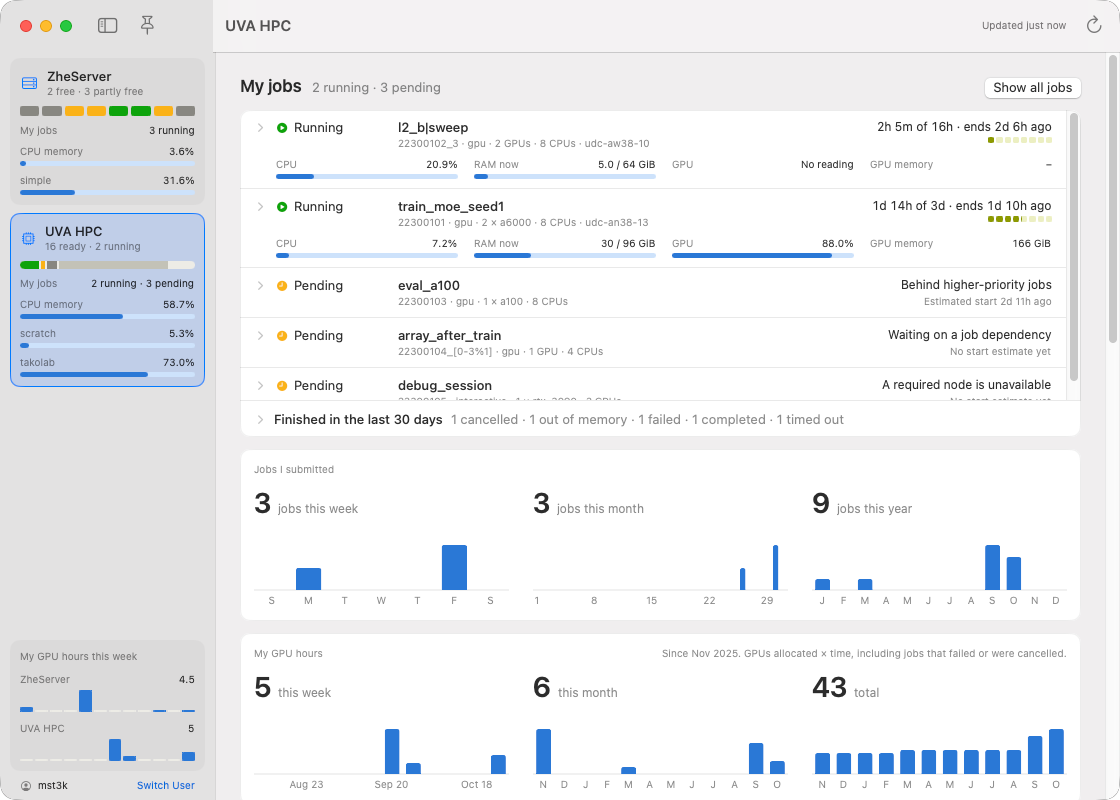
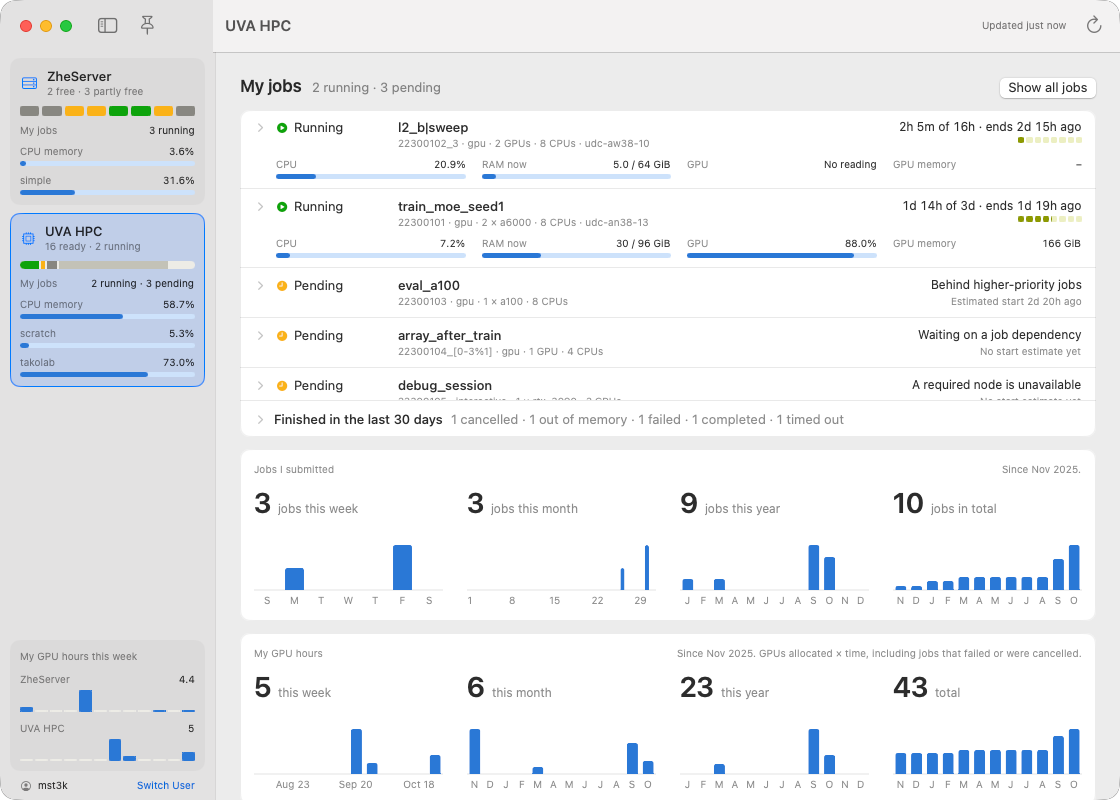
Add year and total tiles, fold away expired grants under my share
My GPU hours gets a this-year tile, one bar per month from January.
Jobs I submitted gets a total tile with a monthly running total, and
says how far back the history goes. My share of the lab's SUs lists
only current grants, with expired ones under a collapsible row.
README and screenshots updated to match.

diff --git a/Sources/GPUWatch/JobActivity.swift b/Sources/GPUWatch/JobActivity.swift
@@ -1,24 +1,54 @@
 import GPUWatchCore
 import SwiftUI
 
-/// How many jobs the user submitted this week, month and year, each over its own time scale.
+/// How many jobs the user submitted this week, month and year, each over its own time scale,
+/// and in total.
 struct JobActivity: View {
     let history: JobHistory
+
+    private static let monthsShown = 12
 
     var body: some View {
         Panel {
             VStack(alignment: .leading, spacing: 10) {
-                Text("Jobs I submitted")
-                    .font(.caption)
-                    .foregroundStyle(.secondary)
+                HStack(alignment: .firstTextBaseline, spacing: 12) {
+                    Text("Jobs I submitted")
+                    Spacer(minLength: 0)
+                    if let first = history.firstSubmitted {
+                        Text("Since \(first.formatted(.dateTime.month(.abbreviated).year())).")
+                    }
+                }
+                .font(.caption)
+                .foregroundStyle(.secondary)
+                .lineLimit(1)
                 HStack(alignment: .top, spacing: 24) {
                     tile("this week", slots: history.week(), scale: .week)
                     tile("this month", slots: history.month(), scale: .month)
                     tile("this year", slots: history.year(), scale: .year)
+                    totalTile()
                 }
             }
             .padding(14)
         }
+    }
+
+    /// Thinned out once the months stop fitting, counting back so the latest keeps its label.
+    private func totalTile() -> some View {
+        let totals = history.runningTotal(minimumMonths: Self.monthsShown)
+        let total = history.jobs.count
+        let every = totals.count <= Self.monthsShown + 2 ? 1 : 3
+        return SlotTile(
+            number: "\(total)",
+            caption: "\(total == 1 ? "job" : "jobs") in total",
+            columns: totals.enumerated().map { index, month in
+                let isLabeled = (totals.count - 1 - index) % every == 0
+                return SlotColumn(
+                    value: Double(month.count),
+                    label: isLabeled ? month.date.formatted(.dateTime.month(every == 1 ? .narrow : .abbreviated)) : nil,
+                    tooltip: "Total by \(month.date.formatted(.dateTime.month(.wide).year())): \(month.count == 1 ? "1 job" : "\(month.count) jobs")"
+                )
+            }
+        )
     }
 
     private func tile(_ period: String, slots: [ActivitySlot], scale: ActivityScale) -> some View {
@@ -62,7 +92,7 @@ private enum ActivityScale {
     }
 }
 
-/// The user's GPU hours on one machine: per week, per month, and in total.
+/// The user's GPU hours on one machine: per week, per month, this year, and in total.
 struct GPUHoursPanel: View {
     let usage: GPUUsage
     let today: Date
@@ -77,6 +107,7 @@ struct GPUHoursPanel: View {
     var body: some View {
         let weeks = usage.weeks(count: Self.weeksShown, through: today)
         let months = usage.months(count: Self.monthsShown, through: today)
+        let year = usage.year(holding: today)
         Panel {
             VStack(alignment: .leading, spacing: 10) {
                 HStack(alignment: .firstTextBaseline, spacing: 12) {
@@ -90,6 +121,7 @@ struct GPUHoursPanel: View {
                 HStack(alignment: .top, spacing: 24) {
                     SlotTile(number: Format.hours(weeks.last?.hours ?? 0), caption: "this week", columns: weekColumns(weeks))
                     SlotTile(number: Format.hours(months.last?.hours ?? 0), caption: "this month", columns: monthColumns(months))
+                    SlotTile(number: Format.hours(year.map(\.hours).reduce(0, +)), caption: "this year", columns: monthColumns(year))
                     SlotTile(number: Format.hours(usage.totalHours), caption: "total", columns: totalColumns())
                 }
             }

diff --git a/Sources/GPUWatchChecks/main.swift b/Sources/GPUWatchChecks/main.swift
@@ -367,6 +367,11 @@ func checkJobHistory() throws {
     check(month.count == 31 && month.map(\.count).reduce(0, +) == 3, "this month by day: \(month.map(\.count))")
     let year = history.year(calendar: sundayFirst)
     check(year.map(\.count) == [1, 0, 1, 0, 0, 0, 0, 0, 4, 3, 0, 0], "counted when submitted, not when ended: \(year.map(\.count))")
+    let totals = history.runningTotal(minimumMonths: 12, calendar: sundayFirst)
+    check(totals.count >= 12 && totals.last?.count == history.jobs.count, "the running total ends at every job: \(totals.map(\.count))")
+    check(zip(totals, totals.dropFirst()).allSatisfy { $0.count <= $1.count }, "a running total never falls")
+    check(totals.first.map { sundayFirst.isDate($0.date, equalTo: history.firstSubmitted ?? .distantPast, toGranularity: .month) } == true
+          || totals.count == 12, "the total starts at the first job's month, unless padded to a year")
 
     let grants = try HPCSnapshot.parse(fixture("UVA_HPC")).allocation?.grants ?? []
     let shares = history.charges(on: grants)
@@ -402,6 +407,13 @@ func checkGPUHours() throws {
     check(months.count == 12 && months[0] == 20 && months[10] == 14 && months[11] == 6, "a job across two months is split between them: \(months)")
     let weeks = usage.weeks(count: 12, through: history.today, calendar: sundayFirst).map(\.hours)
     check(weeks.count == 12 && weeks[11] == 5 && weeks[10] == 0 && weeks[7] == 3, "hours per week, newest last: \(weeks)")
+    let year = usage.year(holding: history.today, calendar: sundayFirst)
+    let thisYear = sundayFirst.component(.year, from: history.today)
+    let monthsThisYear = usage.months(count: 12, through: history.today, calendar: sundayFirst).filter { sundayFirst.component(.year, from: $0.date) == thisYear }
+    check(year.count == 12 && year.allSatisfy { sundayFirst.component(.year, from: $0.date) == thisYear } && sundayFirst.component(.month, from: year[0].date) == 1,
+          "this year is January to December: \(year.map(\.date))")
+    check(abs(year.map(\.hours).reduce(0, +) - monthsThisYear.map(\.hours).reduce(0, +)) < 0.001 && year.map(\.hours).reduce(0, +) < usage.totalHours,
+          "this year counts only its own months: \(year.map(\.hours))")
     let totals = usage.runningTotal(through: history.today, calendar: sundayFirst)
     check(totals.count == 12 && totals.first?.hours == 20 && abs((totals.last?.hours ?? 0) - 43) < 0.001, "the running total ends at the total: \(totals.map(\.hours))")
     check(GPUUsage(intervals: []).runningTotal(through: history.today).count == 1, "nothing used yet is still one month")

diff --git a/Sources/GPUWatch/HPCPage.swift b/Sources/GPUWatch/HPCPage.swift
@@ -766,7 +766,8 @@ private struct MyUsage: View {
 }
 
 /// How much of what the lab has used on each grant was the user. Grants nobody has used are
-/// left out, since there's nothing to take a share of.
+/// left out, since there's nothing to take a share of, and ones that can't be spent any more
+/// are folded away below the current ones.
 private struct MyShare: View {
     @Environment(AppModel.self) private var model
     let snapshot: HPCSnapshot
@@ -788,12 +789,41 @@ private struct MyShare: View {
                 .font(.caption)
                 .monospacedDigit()
                 .lineLimit(1)
-                ForEach(rows, id: \.grant.id) { row in
+                let current = rows.filter(\.grant.isActive)
+                let past = rows.filter { !$0.grant.isActive }
+                ForEach(current, id: \.grant.id) { row in
                     shareRow(grant: row.grant, mine: row.mine)
+                }
+                // With no current grant there's nothing to fold the old ones under.
+                if !past.isEmpty && !current.isEmpty {
+                    pastHeader(past.map(\.grant))
+                }
+                if current.isEmpty || model.showsInactiveShares {
+                    ForEach(past, id: \.grant.id) { row in
+                        shareRow(grant: row.grant, mine: row.mine)
+                    }
                 }
             }
             .padding(14)
         }
+    }
+
+    private func pastHeader(_ grants: [AllocationGrant]) -> some View {
+        Button {
+            model.showsInactiveShares.toggle()
+        } label: {
+            HStack(spacing: 8) {
+                Chevron(isOpen: model.showsInactiveShares)
+                Text(grants.allSatisfy { $0.phase(now: .now) == .expired } ? "Expired grants" : "Inactive grants")
+                Text("\(grants.count)")
+                    .monospacedDigit()
+                Spacer()
+            }
+            .font(.caption)
+            .foregroundStyle(.secondary)
+            .padding(.vertical, 2)
+        }
+        .buttonStyle(HoverRowStyle())
     }
 
     private var rows: [(grant: AllocationGrant, mine: Int)] {

diff --git a/Sources/GPUWatchCore/JobHistory.swift b/Sources/GPUWatchCore/JobHistory.swift
@@ -128,6 +128,24 @@ public struct JobHistory: Sendable, Equatable {
         return slots(from: start, count: 12, unit: .month, calendar: calendar)
     }
 
+    public var firstSubmitted: Date? { jobs.values.map(\.submitted).min() }
+
+    /// The total so far at each month from the first job through this one, going back at least
+    /// `minimumMonths` so that a short history doesn't fill a chart with one huge column.
+    public func runningTotal(minimumMonths: Int = 1, calendar: Calendar = .current) -> [ActivitySlot] {
+        guard let thisMonth = calendar.dateInterval(of: .month, for: today)?.start else { return [] }
+        var count = minimumMonths
+        if let first = firstSubmitted, let firstMonth = calendar.dateInterval(of: .month, for: first)?.start {
+            count = max((calendar.dateComponents([.month], from: firstMonth, to: thisMonth).month ?? 0) + 1, minimumMonths)
+        }
+        guard let start = calendar.date(byAdding: .month, value: 1 - count, to: thisMonth) else { return [] }
+        var total = 0
+        return slots(from: start, count: count, unit: .month, calendar: calendar).map { month in
+            total += month.count
+            return ActivitySlot(date: month.date, count: total)
+        }
+    }
+
     private func slots(from start: Date, count: Int, unit: Calendar.Component, calendar: Calendar) -> [ActivitySlot] {
         (0..<count).compactMap { offset in
             guard let date = calendar.date(byAdding: unit, value: offset, to: start),

diff --git a/Sources/GPUWatchCore/GPUUsage.swift b/Sources/GPUWatchCore/GPUUsage.swift
@@ -50,6 +50,14 @@ public struct GPUUsage: Sendable, Equatable {
         slots(of: .month, count: count, through: today, calendar: calendar)
     }
 
+    /// Each month of the year holding `today`, January first, months still to come at zero.
+    public func year(holding today: Date, calendar: Calendar = .current) -> [UsageSlot] {
+        guard let start = calendar.dateInterval(of: .year, for: today)?.start,
+              let december = calendar.date(byAdding: .month, value: 11, to: start)
+        else { return [] }
+        return months(count: 12, through: december, calendar: calendar)
+    }
+
     /// The total so far at each month from the first use through `today`, going back at least
     /// `minimumMonths` so that a short history doesn't fill a chart with one huge column.
     public func runningTotal(through today: Date, minimumMonths: Int = 1, calendar: Calendar = .current) -> [UsageSlot] {

diff --git a/Sources/GPUWatch/AppModel.swift b/Sources/GPUWatch/AppModel.swift
@@ -58,6 +58,7 @@ final class AppModel {
     var showsFinishedJobs = false
     var showsAllActiveJobs = false
     var showsInactiveGrants = false
+    var showsInactiveShares = false
 
     private var started = false
     private var chargesRequestedAt: Date?
@@ -126,6 +127,7 @@ final class AppModel {
         showsFinishedJobs = false
         showsAllActiveJobs = false
         showsInactiveGrants = false
+        showsInactiveShares = false
         Task {
             await SSH.dropConnection(on: RemoteScripts.serverMachine, as: previous)
             await SSH.dropConnection(on: RemoteScripts.hpcMachine, as: previous)

diff --git a/README.md b/README.md
@@ -12,7 +12,7 @@ It reads over SSH, signed in as you, and never changes anything on either machin
 
 - **Free GPUs at a glance.** ZheServer's 8 GPUs as free, partly free or full, and UVA HPC's GPUs by type as ready, backfill, in use or offline, so you can tell whether a job would start now.
 - **Your jobs.** Running, pending and recently finished jobs on both machines, each with bars for what it's using: CPU, RAM, GPU and GPU memory. Pending jobs say why they're waiting.
-- **Your GPU hours** per week, month and in total on each machine.
+- **Your jobs and GPU hours** this week, month and year, and in total, on each machine.
 - **Lab allocation.** Your share of the SUs the lab has used on each grant, your charges per day, and an estimate for jobs still running.
 - **CPU memory and storage** for each machine, including your scratch space and the lab's shared storage.
 
@@ -96,7 +96,7 @@ Each job shows what it's using, with more detail when you hover. Nothing is rese
 | Partly free | Something is running, but at least 20% of the GPU's memory is unused |
 | Full | Under 20% of the GPU's memory is unused |
 
-**UVA HPC** runs `scontrol`, `squeue`, `sacct`, `sstat`, `mam-list-allocations`, `mam-list-transactions` and `hdquota`, and refreshes every 60 seconds. It lists your running and pending jobs, jobs finished in the last 30 days, how many jobs you submitted this week, month and year, GPUs by type, storage, and the lab's allocation. Click a job or a GPU type for details. Long job lists scroll in place, on both pages, so they don't push the rest of the page down. **Show all jobs** lists every running and pending job on UVA HPC at once.
+**UVA HPC** runs `scontrol`, `squeue`, `sacct`, `sstat`, `mam-list-allocations`, `mam-list-transactions` and `hdquota`, and refreshes every 60 seconds. It lists your running and pending jobs, jobs finished in the last 30 days, how many jobs you submitted this week, month and year and in total, GPUs by type, storage, and the lab's allocation. Click a job or a GPU type for details. Long job lists scroll in place, on both pages, so they don't push the rest of the page down. **Show all jobs** lists every running and pending job on UVA HPC at once.
 
 | GPU count | Meaning |
 |---|---|
@@ -118,13 +118,13 @@ Storage appears on both pages, measured differently:
 - **ZheServer:** `/p/simple` comes from `df`. It's its own volume, so this covers everyone who uses it.
 - **UVA HPC:** `/home/<ID>/scratch` and `/standard/takolab` come from `hdquota`, because `df` on `/standard` reports all of UVA's shared filesystem rather than the lab's quota. `/home/<ID>/scratch` is a link to `/scratch/<ID>`, whose total is UVA's soft limit.
 
-**Lab allocation** shows your share of what the lab has used on each grant, your own use of service units (SUs), then each grant on the `takolab` account with its dates and how much the whole lab has used. Expired grants stay collapsed until you open them.
+**Lab allocation** shows your share of what the lab has used on each grant, your own use of service units (SUs), then each grant on the `takolab` account with its dates and how much the whole lab has used. Expired grants stay collapsed until you open them, both under your share and in the grant list.
 
 - **Your charges** cover the last 60 days, because older accounting queries don't finish in a reasonable time, and Slurm's own history is capped at 31 days per query. A histogram and a heatmap show them per day, counted on the day the job ended. The heatmap has a column per week and a row per weekday. Hover over a day in either for its amount and number of jobs. This query refreshes every 15 minutes and when one of your jobs ends, rather than every minute.
 - **Your share** of a grant is what you've been charged on it over what the lab has used on it. The accounting system can't go back far enough, so your side comes from Slurm's job history: billing rate, run time and outcome, attributed to the grant open when the job ended. That matched all 84 real charges it could be checked against.
 - **Your running jobs** are an estimate, shown beside the total because they aren't part of it yet. A job costs a tenth of its Slurm `billing=` value per hour (`billing=1468` for 36,742 seconds was charged 1,498 SUs), and nothing is charged until it ends. Failed, cancelled and out-of-memory jobs end up free.
 
-**GPU hours** appear on both pages, per week, per month and in total, measured differently:
+**GPU hours** appear on both pages, per week, per month, for each month of this year and in total, measured differently:
 
 - **UVA HPC:** GPUs allocated × run time from Slurm's job history, split across the weeks and months each job ran in. This includes failed and cancelled jobs, which held their GPUs even though they're free.
 - **ZheServer:** the machine keeps no usage history, so the app records what it sees, in `~/Library/Application Support/GPU Watch/zheserver-gpu-usage-<ID>.json`, one file per computing ID. A process counts from when it really started to the last time the app saw it, and a GPU counts once however many of your processes share it. Work from before the first recording isn't there. A job that starts and ends while the app is closed or the Mac is asleep isn't counted, and a job that ends then loses the time after it was last seen.
@@ -136,7 +136,7 @@ Storage appears on both pages, measured differently:
 - **GPU:** Slurm's figure divided by the job's GPUs. It doesn't say whether this is a peak or an average, so treat it as a rough guide. **No reading** means Slurm reported 0 for both GPU numbers, which can mean the GPU went unused or wasn't read. Some older jobs and some `interactive` jobs have no GPU numbers.
 - **GPU memory:** the total across the job's GPUs, which can include memory PyTorch is holding on to after freeing it. Slurm doesn't say how much a GPU holds, so the bar's total comes from a table in the app (`HPCNode.gpuMemoryGB`), matched through the job's node. A new GPU type, or a job across several nodes, shows the amount with no bar. `swift run GPUWatchChecks --live <ID>` lists any type missing from the table.
 
-**Job history** counts each array task as a job, by the day it was submitted. Slurm caps one query at 31 days, so the app asks for one calendar month at a time: 25 queries when it opens, then 2 about every 15 minutes or when your jobs change.
+**Job history** counts each array task as a job, by the day it was submitted. Slurm caps one query at 31 days, so the app asks for one calendar month at a time: 25 queries when it opens, then 2 about every 15 minutes or when your jobs change. So the totals for jobs and UVA HPC GPU hours go back two years.
 
 Polling of UVA HPC stops while the window is completely hidden and catches up when it's visible again. ZheServer slows to every 5 minutes instead, to keep its GPU hours going.
 
